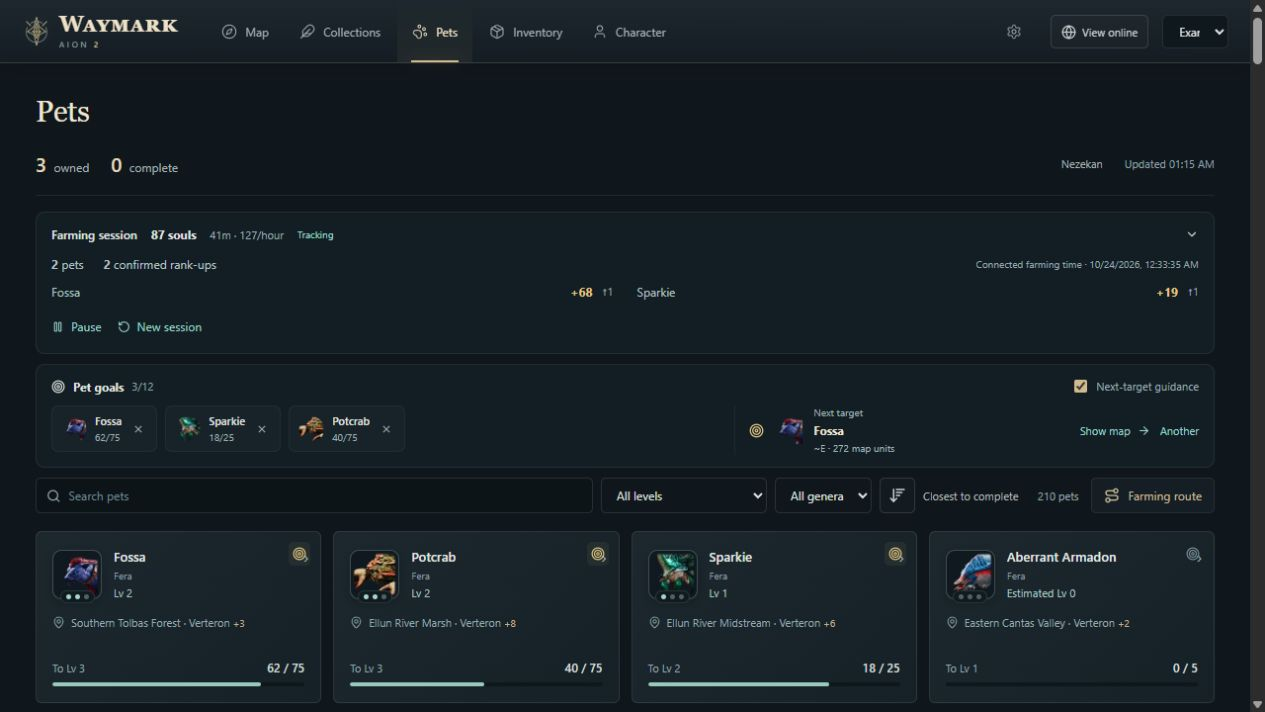
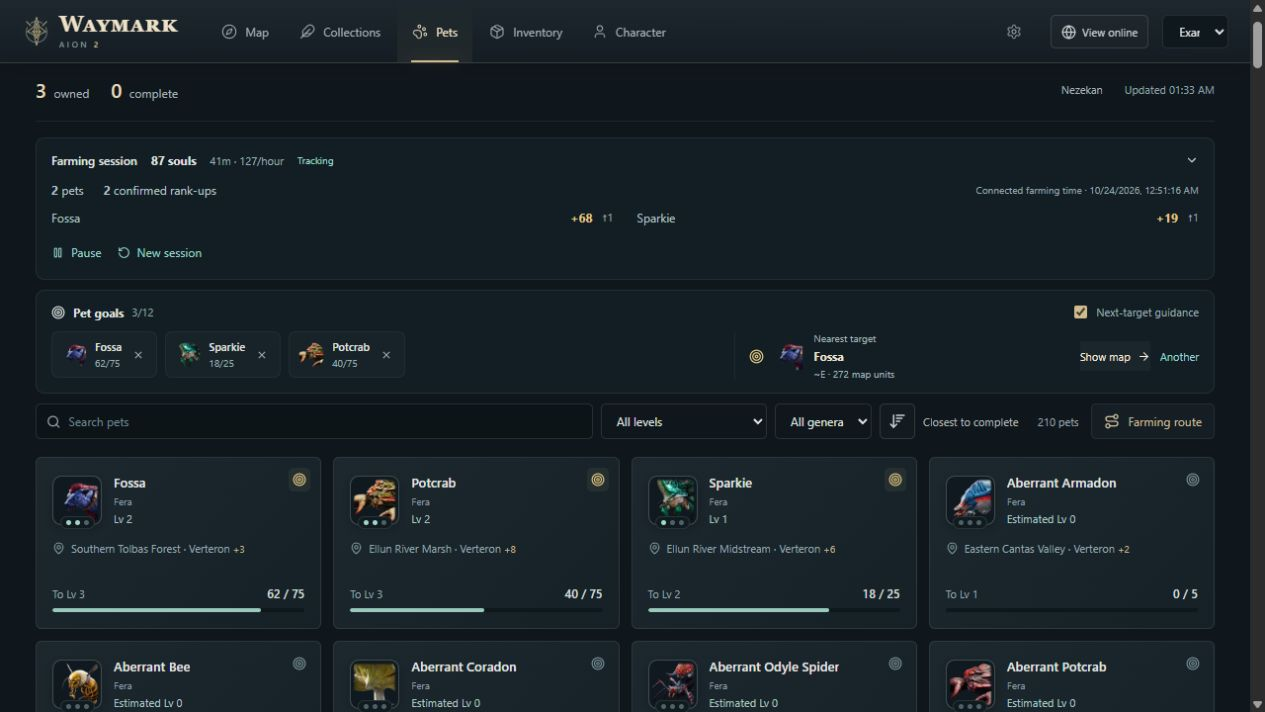
Document automatic and explicitly chosen farming targets

diff --git a/README.md b/README.md
@@ -4,7 +4,7 @@
 
 Waymark is a Windows app for AION 2 Global Steam. Explore the world map, build farming routes, and follow your pet collection in one place. A floating minimap keeps nearby objectives visible while you play.
 
-[**Download Waymark 0.5.3 for Windows**](https://github.com/ErebusAres/waymark-downloads/releases/download/v0.5.3/Waymark-0.5.3-Setup.exe) · [Getting started](docs/GETTING_STARTED.md) · [Release notes](https://github.com/ErebusAres/waymark-downloads/releases/tag/v0.5.3) · [Screenshot gallery](docs/SCREENSHOTS.md) · [All downloads](https://github.com/ErebusAres/waymark-downloads/releases)
+[**Download Waymark 0.5.4 for Windows**](https://github.com/ErebusAres/waymark-downloads/releases/download/v0.5.4/Waymark-0.5.4-Setup.exe) · [Getting started](docs/GETTING_STARTED.md) · [Release notes](https://github.com/ErebusAres/waymark-downloads/releases/tag/v0.5.4) · [Screenshot gallery](docs/SCREENSHOTS.md) · [All downloads](https://github.com/ErebusAres/waymark-downloads/releases)
 
 [**Visit the Waymark website**](https://waymark-aion2.erebusares.chatgpt.site) · [Find a player](https://waymark-aion2.erebusares.chatgpt.site/players) · [Help & FAQ](https://waymark-aion2.erebusares.chatgpt.site/help)
 
@@ -49,6 +49,8 @@ The Windows minimap keeps its **padlock button beside the zoom control**. Lock i
 
 Open the **Farming session** foldout on Pets for observed souls, connected farming time, souls/hour after the first minute, per-pet gains and confirmed rank-ups. Sessions start with the next accepted pickup, pause their clock when the reader disconnects, and save locally for each character. Pause/resume the summary or select **New session** for fresh counters; pausing the summary does not stop collection progress.
 
+Automatic targeting follows the nearest eligible pet as you move. With unfinished goals, it chooses from that shortlist. Click a goal name, **Use as target** in pet details, or **Another** to make an explicit choice; **Auto** returns to nearest-target selection. Chosen targets save separately from automatic suggestions.
+
 Add up to 12 **pet goals** with the target icon on a pet card. Goals are shared by server. The next-target suggestion favors unfinished goals and nearby mapped pockets, advances when the current target reaches maximum progress, and can be changed with **Another** or disabled using **Next-target guidance**.
 
 ![Farming session summary, server-shared goals and next-target suggestion, using example data](docs/images/farming-session.png)
@@ -67,7 +69,7 @@ These are static reference locations. A dense pocket can help you choose where t
 
 ## Start playing
 
-1. Download and run **Waymark-0.5.3-Setup.exe**. Setup includes the WebView2 bootstrapper if the Windows web runtime is missing.
+1. Download and run **Waymark-0.5.4-Setup.exe**. Setup includes the WebView2 bootstrapper if the Windows web runtime is missing.
 2. Choose a starting map and whether to open the floating minimap. You can change both later.
 3. For automatic character and pet reads, install [Npcap from its official site](https://npcap.com/#download) with **WinPcap API-compatible Mode** enabled. Map planning works without it.
 4. Start Waymark before entering your character. If you opened Waymark while already in game, return to character selection and enter once so it can identify the session.

diff --git a/docs/GETTING_STARTED.md b/docs/GETTING_STARTED.md
@@ -1,10 +1,10 @@
 # Getting started with Waymark
 
-[Download 0.5.3](https://github.com/ErebusAres/waymark-downloads/releases/download/v0.5.3/Waymark-0.5.3-Setup.exe) · [Back to Waymark](../README.md)
+[Download 0.5.4](https://github.com/ErebusAres/waymark-downloads/releases/download/v0.5.4/Waymark-0.5.4-Setup.exe) · [Back to Waymark](../README.md)
 
 ## Install
 
-Run **Waymark-0.5.3-Setup.exe** on 64-bit Windows 10 or 11. The installer includes a WebView2 bootstrapper for systems missing that runtime; it may need an internet connection. No Python, Node.js or development tools are required.
+Run **Waymark-0.5.4-Setup.exe** on 64-bit Windows 10 or 11. The installer includes a WebView2 bootstrapper for systems missing that runtime; it may need an internet connection. No Python, Node.js or development tools are required.
 
 On first launch, select Verteron, Altgard or Abyss and choose whether to show the floating minimap. **Start exploring** applies the map selection; **Keep current map** keeps the existing map. Both actions save the minimap checkbox.
 
@@ -148,3 +148,7 @@ Open **Settings → Statistics** for automatic counters since tracking began. **
 Use **View online** beside the character selector, or **Settings → Website & sync → Connect account**. Approve the code on the website once. The app syncs progress automatically while running. You can hide profiles, disconnect devices and download private workspace snapshots from [My characters](https://waymark-aion2.erebusares.chatgpt.site/account). [Full setup instructions](https://waymark-aion2.erebusares.chatgpt.site/help/sync).
 
 ![Example of the exact suggested farming pocket selected on the map](images/map-target.png)
+
+### Automatic versus chosen farming targets
+
+From 0.5.4, automatic guidance continuously chooses the nearest eligible unfinished pet. Unfinished goals define the shortlist when present. Automatic suggestions are not saved as chosen targets. Click a goal name, Use as target in pet details, or Another to choose a pet explicitly; it remains selected across restarts. Select Auto to return to proximity-based guidance. Old automatic suggestions saved by 0.5.3 no longer act as pinned choices.
